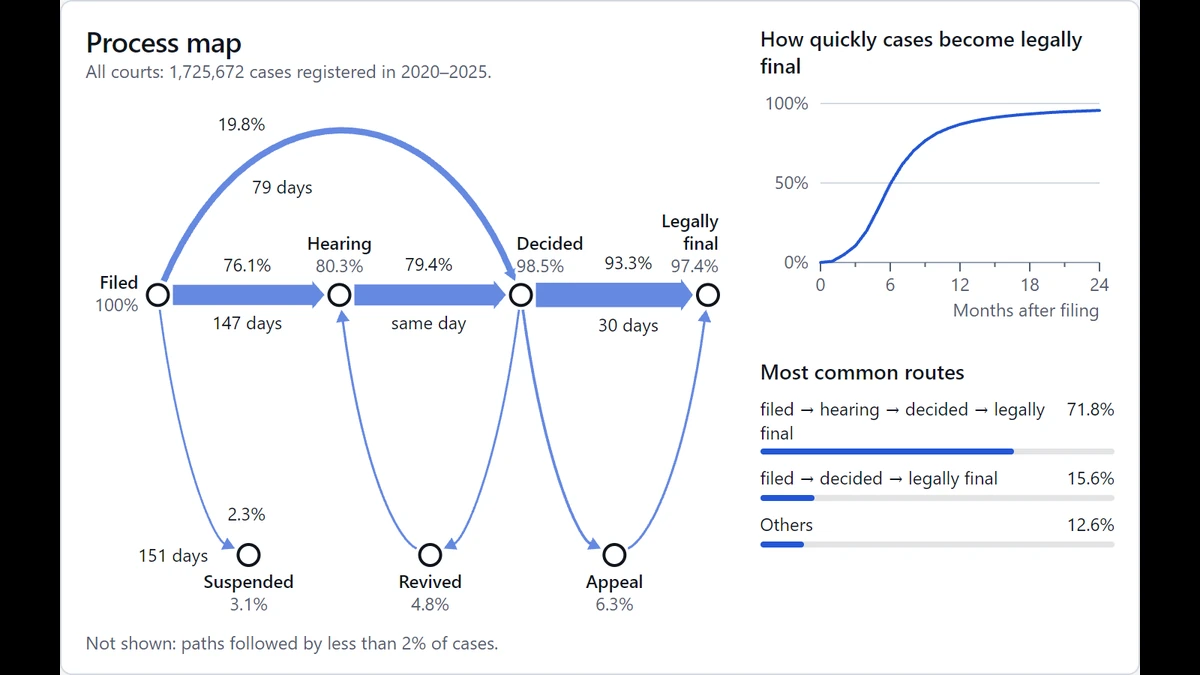
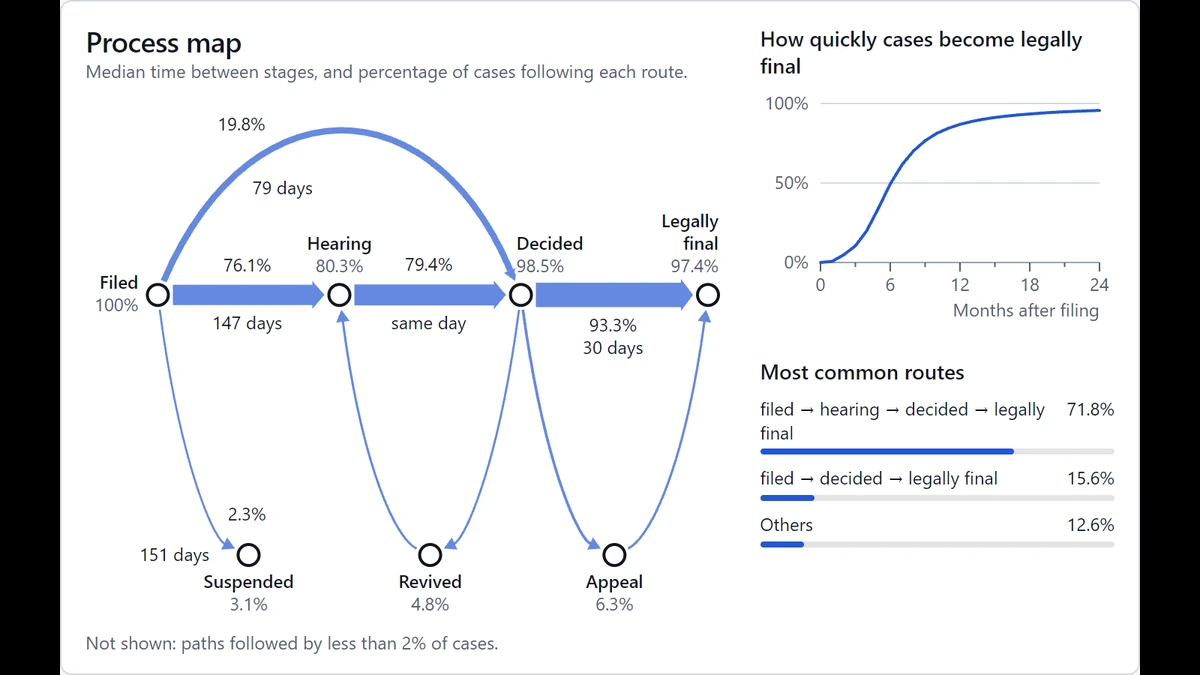
Process map first; a description in place of the court; an accurate note; bold on hover
- The tabs swap: the demo opens on the Process map, for all courts, and
  its stills show it.
- Under the map's title, Mark's line in place of the court's name.
- The note under the map names the moves of 2% or more left out because
  they'd cross another stage.
- Hovering makes the lit labels bold.

diff --git a/demo/src/main.js b/demo/src/main.js
@@ -1,8 +1,8 @@
 // The demo's entry point. Vite bundles it with the kit and the CSS into demo.js and demo.css.
 //
 // It loads the data, then mounts the frame with the controls, showing only those the current tab uses.
-// The tabs (views/) draw the stage; this module keeps the state they share: the tab, and the court
-// selected, or none for all courts. The Forecast tab always has a court: the one selected, or else the
+// The tabs (views/) draw the stage, the Process map first; this module keeps the state they share: the
+// tab, and the court selected, or none for all courts. The Forecast tab always has a court: the one selected, or else the
 // last it had. Its case is one of that court's real past cases, with the day of its forecast, or a
 // custom case, whose filing, events and day of forecast the visitor gives as dates. The status line
 // shows what's selected, with its headline numbers.
@@ -33,10 +33,10 @@ const ICONS = {
     + '<circle cx="8.5" cy="15.5" r="1.5"/><circle cx="15.5" cy="15.5" r="1.5"/></g>',
 };
 const TABS = {
-  forecast: { label: 'Forecast', create: createForecast },
   map: { label: 'Process map', create: createMap },
+  forecast: { label: 'Forecast', create: createForecast },
 };
-// The case the demo opens on: an ordinary one, with a hearing and a decision.
+// The case the Forecast tab opens on: an ordinary one, with a hearing and a decision.
 const OPENING = { court: 'OSJIMJI', label: '18 C 33/2024' };
 const CUSTOM = 'custom'; // the case menu's value for a custom case
 const DAY = 864e5;
@@ -61,17 +61,16 @@ async function start(el) {
     label: 'View',
     showLabel: false,
     options: Object.entries(TABS).map(([value, { label }]) => ({ label, value, icon: ICONS[value] })),
-    value: 'forecast',
+    value: 'map',
   });
-  // A court's type, then its place. Only the Process map offers all courts.
+  // A court's type, then its place. Only the Process map offers all courts, which it opens on.
   const court = cascade({
     label: 'Court',
     names: ['Court type', 'Location'],
     groups: byType(data.courts).map(({ type, courts }) => ({ label: type, options: courts.map(({ court: c, place }) => ({ label: place, value: c })) })),
-    value: forecastCourt,
+    value: null,
     none: 'All courts',
   });
-  court.offerNone(false);
   // The court's real past cases, and a custom case. The die beside the menu picks a real one at random.
   const random = iconButton({ label: 'Random case', icon: ICONS.random });
   const caseMenu = dropdown({ label: 'Case', beside: random });

diff --git a/demo/src/views/map.js b/demo/src/views/map.js
@@ -17,7 +17,7 @@
 
 import { h, s } from '../dom.js';
 import * as describe from '../format.js';
-import { ARCS, PLACES, legallyFinal, moves, mostCommon, shape, split } from '../journey.js';
+import { ARCS, DRAWN, PLACES, legallyFinal, moves, mostCommon, shape, split } from '../journey.js';
 
 const MONTHS = 24; // months after filing on the curve
 const LINE = 15; // px, a label's line height
@@ -59,13 +59,16 @@ export function createMap(host, data) {
     return ruler.measureText(text).width;
   }
 
+  /** An arrow's label's width, bold as it is when lit, so that it fits then too. */
+  const measureLit = (text) => measure(text, true);
+
   function render({ court }) {
     const journey = data.journey(court);
-    meta.textContent = `${court ? court.name : 'All courts'}: ${describe.registered(journey)} in 2020–2025.`;
+    meta.textContent = 'Median time between stages, and percentage of cases following each route.';
     const list = moves(journey, data.stages);
     const { drawn, rest: left } = split(list);
     describeMoves(list);
-    rest.textContent = describe.notShown(left);
+    rest.textContent = describe.notShown(left, DRAWN);
     legend.hidden = !court;
     legend.replaceChildren(...(court
       ? [h('span', { class: 'sd-key sd-key-model' }), h('span', { class: 'sd-legend-name' }, court.area),
@@ -196,13 +199,13 @@ export function createMap(host, data) {
     // they can't clear.
     const overlap = (a, b) => a[0] < b[2] && b[0] < a[2] && a[1] < b[3] && b[1] < a[3];
     for (const a of arrows) {
-      const space = { width, height, taken, marks, measure, own: a.id, twin: a.twin };
+      const space = { width, height, taken, marks, measure: measureLit, own: a.id, twin: a.twin };
       a.boxes = place(describe.moveLabel(a.move), a.w, a.geometry, space, { together: a.twin !== null });
       a.extra = !a.boxes.length;
       taken.push(...a.boxes.map(({ bounds: [x0, y0, x1, y1] }) => [x0 - SPACE, y0 - SPACE, x1 + SPACE, y1 + SPACE]));
     }
     for (const a of arrows.filter(({ extra }) => extra)) {
-      const space = { width, height, taken, marks, measure, own: a.id, twin: a.twin };
+      const space = { width, height, taken, marks, measure: measureLit, own: a.id, twin: a.twin };
       const options = { together: a.twin !== null, sure: false };
       a.boxes = [place(describe.moveLabel(a.move), a.w, a.geometry, space, options),
         () => place(describe.moveLabel(a.move), a.w, a.geometry, { ...space, taken: stageBoxes }, options),

diff --git a/demo/src/format.js b/demo/src/format.js
@@ -105,5 +105,16 @@ export function routeText({ stages, ending }) {
 /** An arrow's label on the map, as its lines: the share of cases making the move, and its median wait if known. */
 export const moveLabel = (m) => [share(m.share), ...(m.wait ? [wait(m.wait[1])] : [])];
 
-/** The note under the map, if it leaves any moves out (Mark's wording). */
-export const notShown = (rest) => (rest.length ? 'Not shown: paths followed by less than 2% of cases.' : '');
+/** A move between two stages: "decided → legally final". */
+const move = ({ from, to }) => route([from, to]);
+
+/**
+ * The note under the map, if it leaves any moves out: those made by fewer than `least` of cases (2%, in
+ * Mark's words), and by name those made by more that it leaves out because they'd cross another stage.
+ */
+export function notShown(rest, least) {
+  if (!rest.length) return '';
+  const note = 'Not shown: paths followed by less than 2% of cases';
+  const crossing = rest.filter((m) => m.share >= least).map((m) => `${move(m)} (${share(m.share)})`);
+  return crossing.length ? `${note}, and those that would cross another stage: ${list(crossing)}.` : `${note}.`;
+}

diff --git a/demo/test/journey.test.js b/demo/test/journey.test.js
@@ -85,8 +85,12 @@ test('the map draws moves of at least 2% between stages next to each other, and 
   for (const court of data.courts) {
     for (const m of split(moves(data.journey(court), data.stages)).drawn) assert.ok(shape(m.from, m.to), court.code);
   }
-  assert.equal(notShown(rest), 'Not shown: paths followed by less than 2% of cases.');
-  assert.equal(notShown([]), '');
+  assert.equal(notShown(rest, DRAWN), 'Not shown: paths followed by less than 2% of cases.');
+  assert.equal(notShown([], DRAWN), '');
+  // At a court where a move of 2% or more would cross another stage, it's named.
+  const deep = { from: 'filed', to: 'appeal', share: 0.025 };
+  assert.equal(notShown([deep, ...rest], DRAWN),
+    'Not shown: paths followed by less than 2% of cases, and those that would cross another stage: filed → appeal (2.5%).');
   assert.deepEqual(moveLabel(drawn[2]), ['76.1%', '147 days']);
   assert.deepEqual(moveLabel({ share: 0.03, wait: null }), ['3.0%']);
 });

diff --git a/demo/src/demo.css b/demo/src/demo.css
@@ -656,6 +656,15 @@
   opacity: 0.25;
 }
 
+/* What's lit is bold, and a lit stage's share as dark as its name. */
+[data-demo] .sd-flow.has-hover .is-hover text {
+  font-weight: var(--weight-strong);
+}
+
+[data-demo] .sd-flow.has-hover .sd-stage.is-hover .sd-node-share {
+  fill: var(--color-text);
+}
+
 /* Labels too crowded to show all the time show only while lit, and hide the labels they'd cover. */
 [data-demo] .sd-flow .sd-edge-label.is-extra:not(.is-hover),
 [data-demo] .sd-flow.has-hover .sd-edge-label.is-covered {

diff --git a/scripts/stills.py b/scripts/stills.py
@@ -1,8 +1,8 @@
 """Render the demo's stills from the built demo into demo/public/, in the dark and light themes.
 
-- static.webp and static-light.webp: the opening state, the Forecast tab on 18 C 33/2024 at Jihlava,
-  at filing. Shown while the demo loads, and without JavaScript.
-- thumb.webp and thumb-light.webp: the Process map for all courts, for the project card. The stage is
+- static.webp and static-light.webp: the opening state, the Process map for all courts. Shown while
+  the demo loads, and without JavaScript.
+- thumb.webp and thumb-light.webp: the same, for the project card. The stage is
   shot at 720 x 450: small, so its arrows stay readable on the card, but no smaller than the site shows
   it, so its labels have the room they have there. That's 16:10, the card's shape, centred on the
   theme's page colour at 1200 x 675. The card trims those margins.
@@ -53,7 +53,7 @@ def open_page(browser, url, errors):
     page.on("console", lambda message: message.type == "error" and errors.append(message.text))
     page.on("pageerror", lambda error: errors.append(str(error)))
     page.goto(url)
-    page.wait_for_selector(".sd-forecast .sd-chart path")
+    page.wait_for_selector(".sd-flow .sd-node")
     page.evaluate("document.head.append(Object.assign(document.createElement('style'), { id: 'still' }))")
     return page
 
@@ -81,13 +81,6 @@ def render(browser, url, errors):
     page = open_page(browser, url, errors)
     for theme in THEMES:
         stills["static", theme] = shoot(page, theme, 1200, 675)
-    page.close()
-
-    page = open_page(browser, url, errors)
-    page.get_by_role("radio", name="Process map", exact=True).check(
-        force=True
-    )  # each radio sits under its label
-    page.wait_for_selector(".sd-flow .sd-node")
     for theme in THEMES:
         stills["thumb", theme] = shoot(page, theme, 720, 450)
     stills["og", "dark"] = shoot(page, "dark", 800, 420)

diff --git a/docs/plan.md b/docs/plan.md
@@ -280,7 +280,7 @@ Compare national and court intake with the Ministry of Justice's official statis
 
 | | |
 | --- | --- |
-| Tabs | Forecast (opening) and Process map, then Courts after the demo goes live (step 10). They're switched with buttons at the top of the controls rail, and the rail shows only the controls the current tab uses. |
+| Tabs | Process map (opening) and Forecast (Mark, 2026-11-26: the map first), then Courts after the demo goes live (step 10). They're switched with buttons at the top of the controls rail, and the rail shows only the controls the current tab uses. |
 | Forecast | Pick a court, then a real past case from its menu (or at random), or "Custom case", and give its filing date, its events and the date of the forecast. It shows the case's history so far and the chances it ends within 1, 3, 6 and 12 months. For a real case, it also shows what happened next. |
 | How well it does | Dropped from the demo on 2026-11-26 (Mark), with the "Show" switch it had: Mark may bring it back somewhere else. The export still carries the scores and calibration. |
 | Process map | A flow diagram of the stages a civil case passes through (Mark, 2026-11-26): the usual route along a row; filing to a decision in an arc over the hearing; suspensions, revivals and appeals each at the bottom of an arc below the row, between the stages they join. Only moves made by at least 2% of cases are drawn, each as wide as its share, with its share on one side and its median wait on the other, where they're plainly its own, and otherwise only on hover; a line under it says the rest aren't shown. Hovering an arrow dims everything but it, its labels and its two stages; hovering a stage, everything but its arrows. |
@@ -904,10 +904,11 @@ Added with Mark on 2026-11-25, after the first four PRs: weighting recent traini
   - **The model card** gets a tab of its own beside "More info" on the project page, at Mark's request. The site draws the card from the manifest, so that's a site PR, and only soudai's manifest has a card.
   - **Tests:** the case search's and the scores' tests are gone, and 6 new: the courts by type and their order, custom cases' events in order of date and their removal, moving the filing, and the status line. 34 in all.
   - **Checked in Edge,** with the built bundle, in both themes at 1280 × 800 and at 390 px: the type and location menus, a real case from the menu and from the die, the slider, a custom case built with the Děčín case's dates (see below), dates typed out of range, removing an event (the focus stays in the list), the Process map with all courts and with Děčín, and back. No console errors, and no sideways scroll on the phone. The stills shoot only the stage, which hasn't changed, so they stay.
-  - **The Process map, reworked with Mark the same day, in three rounds.**
+  - **The Process map, reworked with Mark the same day, in four rounds.**
     - **First round.** He found it a mess: arrows overlapping everywhere, a distracting hover, and two graphs that could be one, showing the share of cases that *are* legally final. He chose fewer, labelled arrows, from a sketch; a hover that dims the other arrows and their numbers, with no tooltip; and a graph of legally final only.
     - **Second round.** Straight arrows beside curved ones looked strange. Revived and appeal each went to the bottom of an arc below the row, so that decided → revived → hearing and decided → appeal → legally final curve as filing → decided does over the hearing, and suspended straight under filing. Mark chose appeal below the row rather than above, which keeps appeal → revived drawable. Each label is now split: the share on one side of its arrow and the wait on the other. The hover dims the other stages too. The graph was too tall and thin, so it took half the column, and the commonest routes (his pick of three ideas) the other half.
     - **Third round.** The arc over the hearing was too high: it now rises about a fifth of its span (a third before), and the room goes to the arcs below. Where the map is crowded, as at the bottom right, an arrow's numbers show only on hover, so nobody has to work out which arrow they belong to. Hovering a stage lights all its arrows, and their numbers where they aren't too crowded. Suspended moved to the bottom of an arc between filing and the hearing, like revived and appeal (Mark changed his mind). The key went, as redundant, and the list of moves not drawn became Mark's line, "Not shown: paths followed by less than 2% of cases." The right column starts at the top of the stage, beside the heading, under the title "How quickly cases become legally final" (his pick from the alternatives offered for his "% of cases legally final over time"), with ticks every 3 months on its x axis, longer every 6. The curve was still too tall and thin, so it takes the top half of the column and the routes the bottom half, with room to spare ("If there is extra whitespace that is a good thing"). Hovering the curve now shows the percentage on the y axis, with the vertical line kept (Mark: it was good). "Commonest routes" became "Most common routes": those over 5% of cases, then "Others", last.
+    - **Fourth round.** The tabs swapped: the Process map comes first and the demo opens on it, for all courts; the Forecast tab still opens on 18 C 33/2024 at Jihlava. So the stills `static.webp` and `static-light.webp` show the map too. The map's header no longer names the court, which the menus show; in its place is Mark's line "Median time between stages, and percentage of cases following each route" ("decisions" at first), which he isn't happy with, with alternatives offered. The note under the map now also names, at the 22 courts that have them, the moves of 2% or more left out because they'd cross another stage ("…, and those that would cross another stage: filed → appeal (4.8%) and appeal → hearing (3.9%)" at Prague 2). Hovering makes the lit labels bold, and a lit stage's share as dark as its name; arrows' labels are measured bold when they're placed, so they fit then.
     - **Arrows** are drawn only for moves made by at least 2% of cases (`journey.DRAWN`), and only between stages the layout can join without crossing another (`journey.shape`): straight along the rows, the arc over the hearing, and halves of the arcs below (`map.route`). A move and its reverse sit side by side. That's 9 of the country's 37 moves, and 4 to 12 at a court (median 9). Before the first round, every move of 0.5% or more was drawn, each bowed, so rare long moves crossed the stages: 18 nationally.
     - **The arcs:** the one over the hearing rises 0.22 of its span and the ones below dip half of theirs, up to 1.3 and 1.8 times that where the height allows (2 and 3 times on maps under 400 px wide, which need the room for labels), and the drawing is centred. Each half of an arc below reaches its bottom stage at a slope of about 25° rather than flat, so a line along the bottom row (appeal → revived, drawn at 34 courts) leaves it clear of them.
     - **Moves that would cross a stage** are left out with the rarer ones. Five reach 2% at some court: filed → appeal (13 courts, up to 4.8%), filed → revived (7), suspended → decided (6), appeal → hearing (6) and hearing → appeal (3), so at 22 courts Mark's line "less than 2%" isn't quite all of it; none nationally. Flagged to him. The hidden table still gives screen readers every move, with the middle half of its waits.
